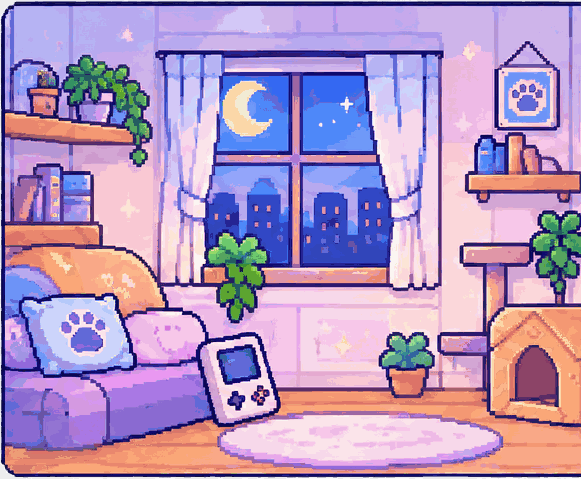
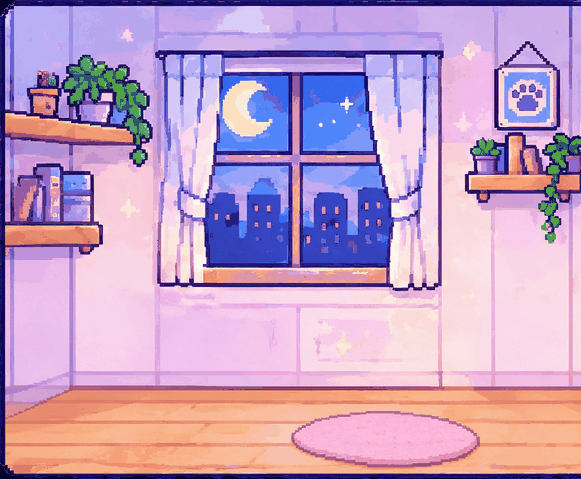
room: новый фон комнаты в стиле спрайтов (пустой пол, коврик под питомца); спрайты пересажены по линии пола; petwrap поверх предметов; room.png?v=2 против недельного immutable-кэша

diff --git a/webapp/index.html b/webapp/index.html
@@ -143,21 +143,22 @@
     box-shadow: var(--shadow); background: var(--cream);
   }
   .room > .roomimg { width: 100%; display: block; }
-  /* кот сидит на ковре по центру комнаты, неподвижно */
+  /* кот сидит на ковре (центр ковра ~67%) поверх спрайтов комнаты */
   .petwrap {
-    position: absolute; left: 63%; bottom: 4%; transform: translateX(-50%);
-    width: 40%;
+    position: absolute; left: 66%; bottom: 4%; transform: translateX(-50%);
+    width: 40%; z-index: 2;
   }
   .petwrap.sleeping { filter: brightness(.85) saturate(.8); }
   .petbase { width: 100%; display: block; }
-  /* спрайты улучшений комнаты — свой ассет на каждый уровень */
-  .roomitems { position: absolute; inset: 0; z-index: 2; pointer-events: none; }
+  /* спрайты улучшений комнаты — свой ассет на каждый уровень;
+     расставлены по стенке нового фона room.png (пол = нижние ~19%) */
+  .roomitems { position: absolute; inset: 0; z-index: 1; pointer-events: none; }
   .ritem { position: absolute; image-rendering: pixelated;
            filter: drop-shadow(0 2px 3px rgba(40, 20, 80, .35)); }
-  .ritem.r-bowl { left: 8%;  bottom: 4%; width: 14%; }
-  .ritem.r-zone { left: 28%; bottom: 2%; width: 17%; }
-  .ritem.r-tree { left: 44%; bottom: 4%; width: 13%; }
-  .ritem.r-bed  { left: 76%; bottom: 2%; width: 17%; }
+  .ritem.r-bowl { left: 6%;    bottom: 4%; width: 13%; }
+  .ritem.r-zone { left: 22.5%; bottom: 2%; width: 15%; }
+  .ritem.r-tree { left: 38.5%; bottom: 4%; width: 12%; }
+  .ritem.r-bed  { left: 84%;   bottom: 2%; width: 16%; }
   /* рамка со «эмоцией» — правый верхний угол комнаты */
   .petstatus {
     position: absolute; top: 10px; right: 10px; z-index: 3;
@@ -518,7 +519,7 @@
     <!-- HOME -->
     <section class="view active" id="view-home">
       <div class="room">
-        <img class="roomimg" src="/assets/room.png" alt="">
+        <img class="roomimg" src="/assets/room.png?v=2" alt="">
         <div class="egg" id="eggBox" hidden>🥚</div>
         <div class="petwrap" id="petWrap" hidden>
           <img class="petbase" id="petBase" src="/assets/pet.png" alt="">
